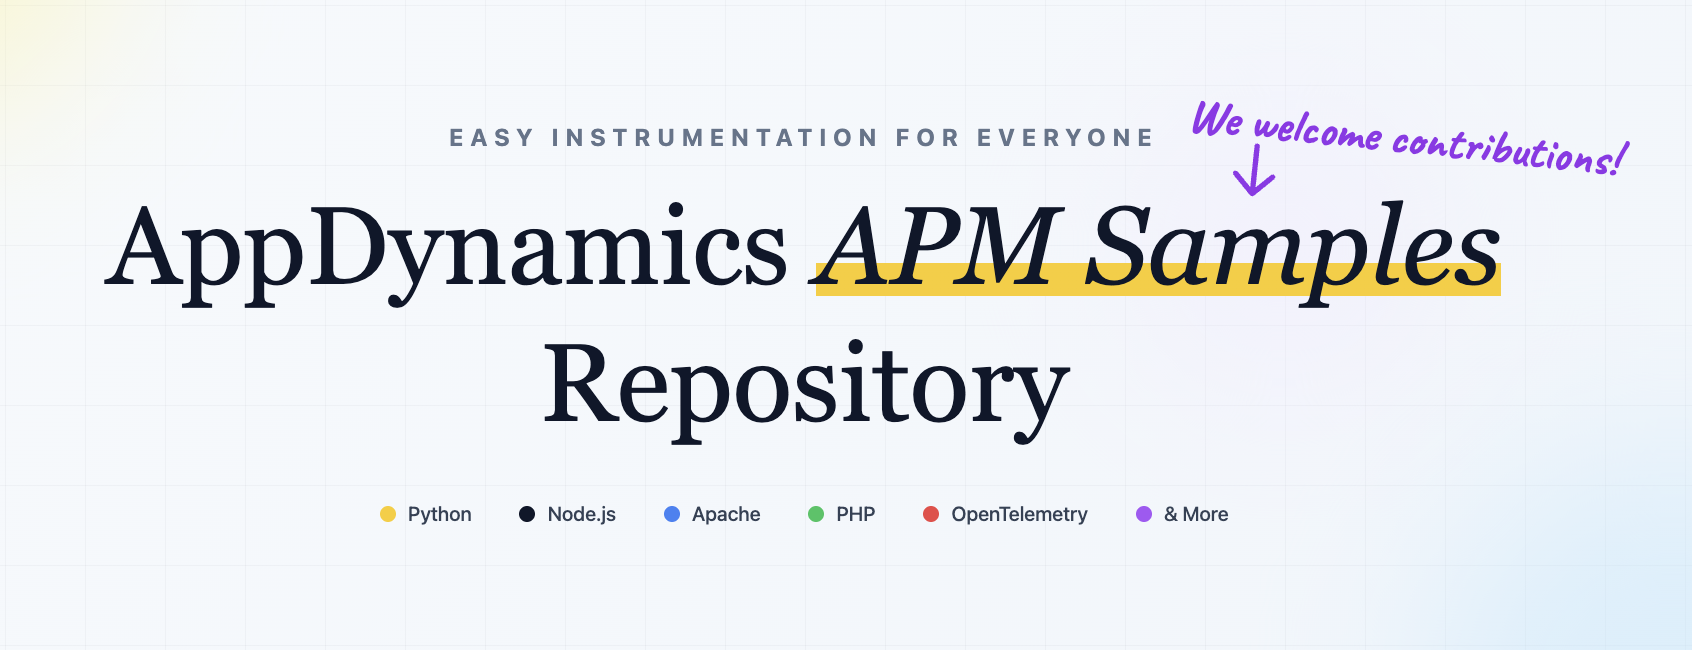
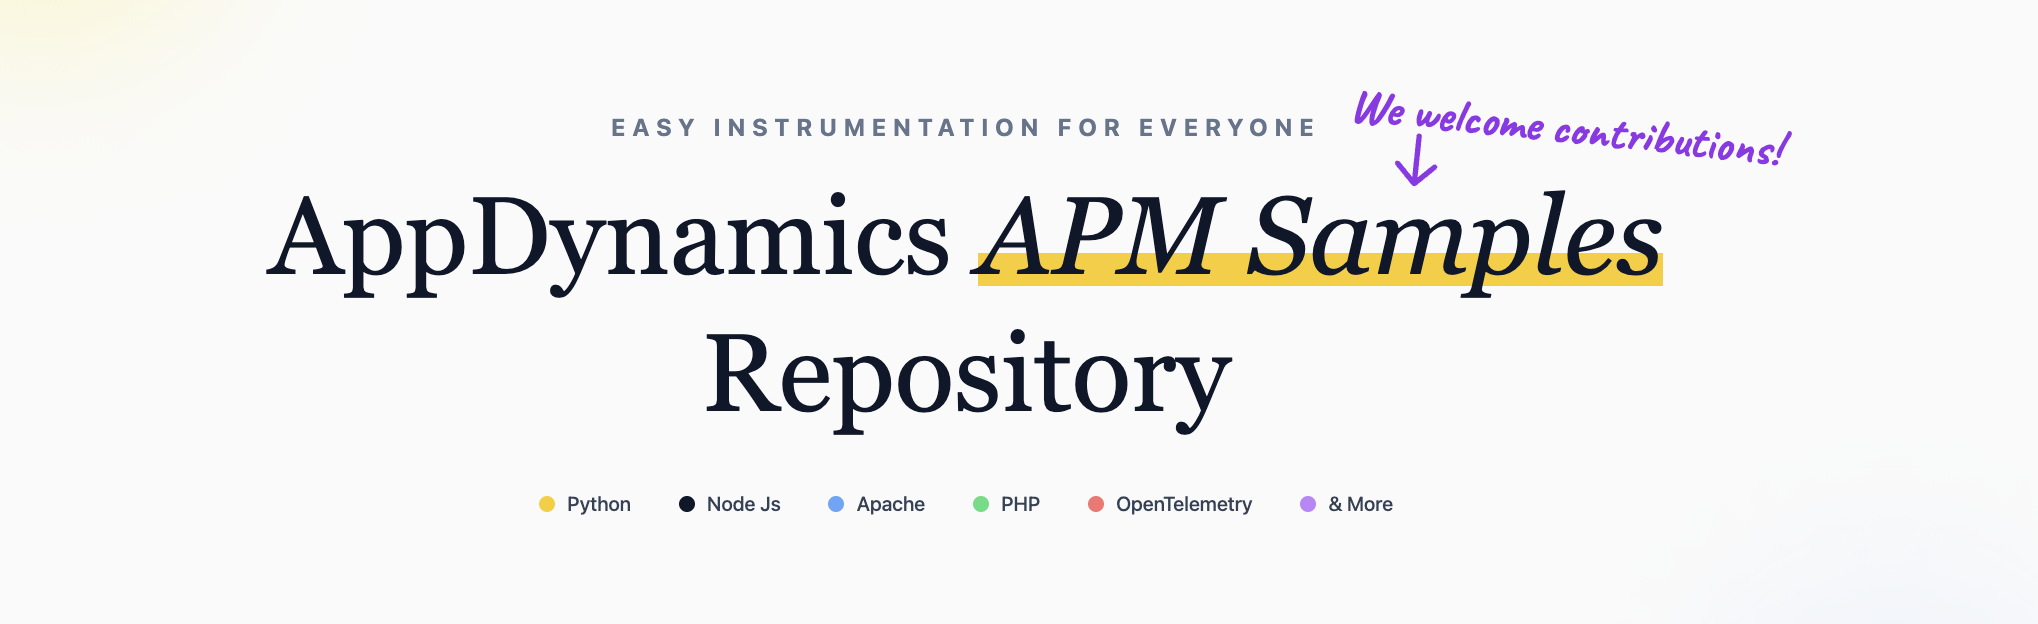
readme

diff --git a/readme.md b/readme.md
@@ -1,6 +1,6 @@
 # AppDynamics Agent Samples Repository
 
-![test](githu2.png)
+![test](header.png)
 
 This repository serves as a centralized collection of **AppDynamics APM agent instrumentation** examples. Each folder contains a lightweight sample application that showcases different instrumentation techniques and use cases across various AppDynamics agents.
 
